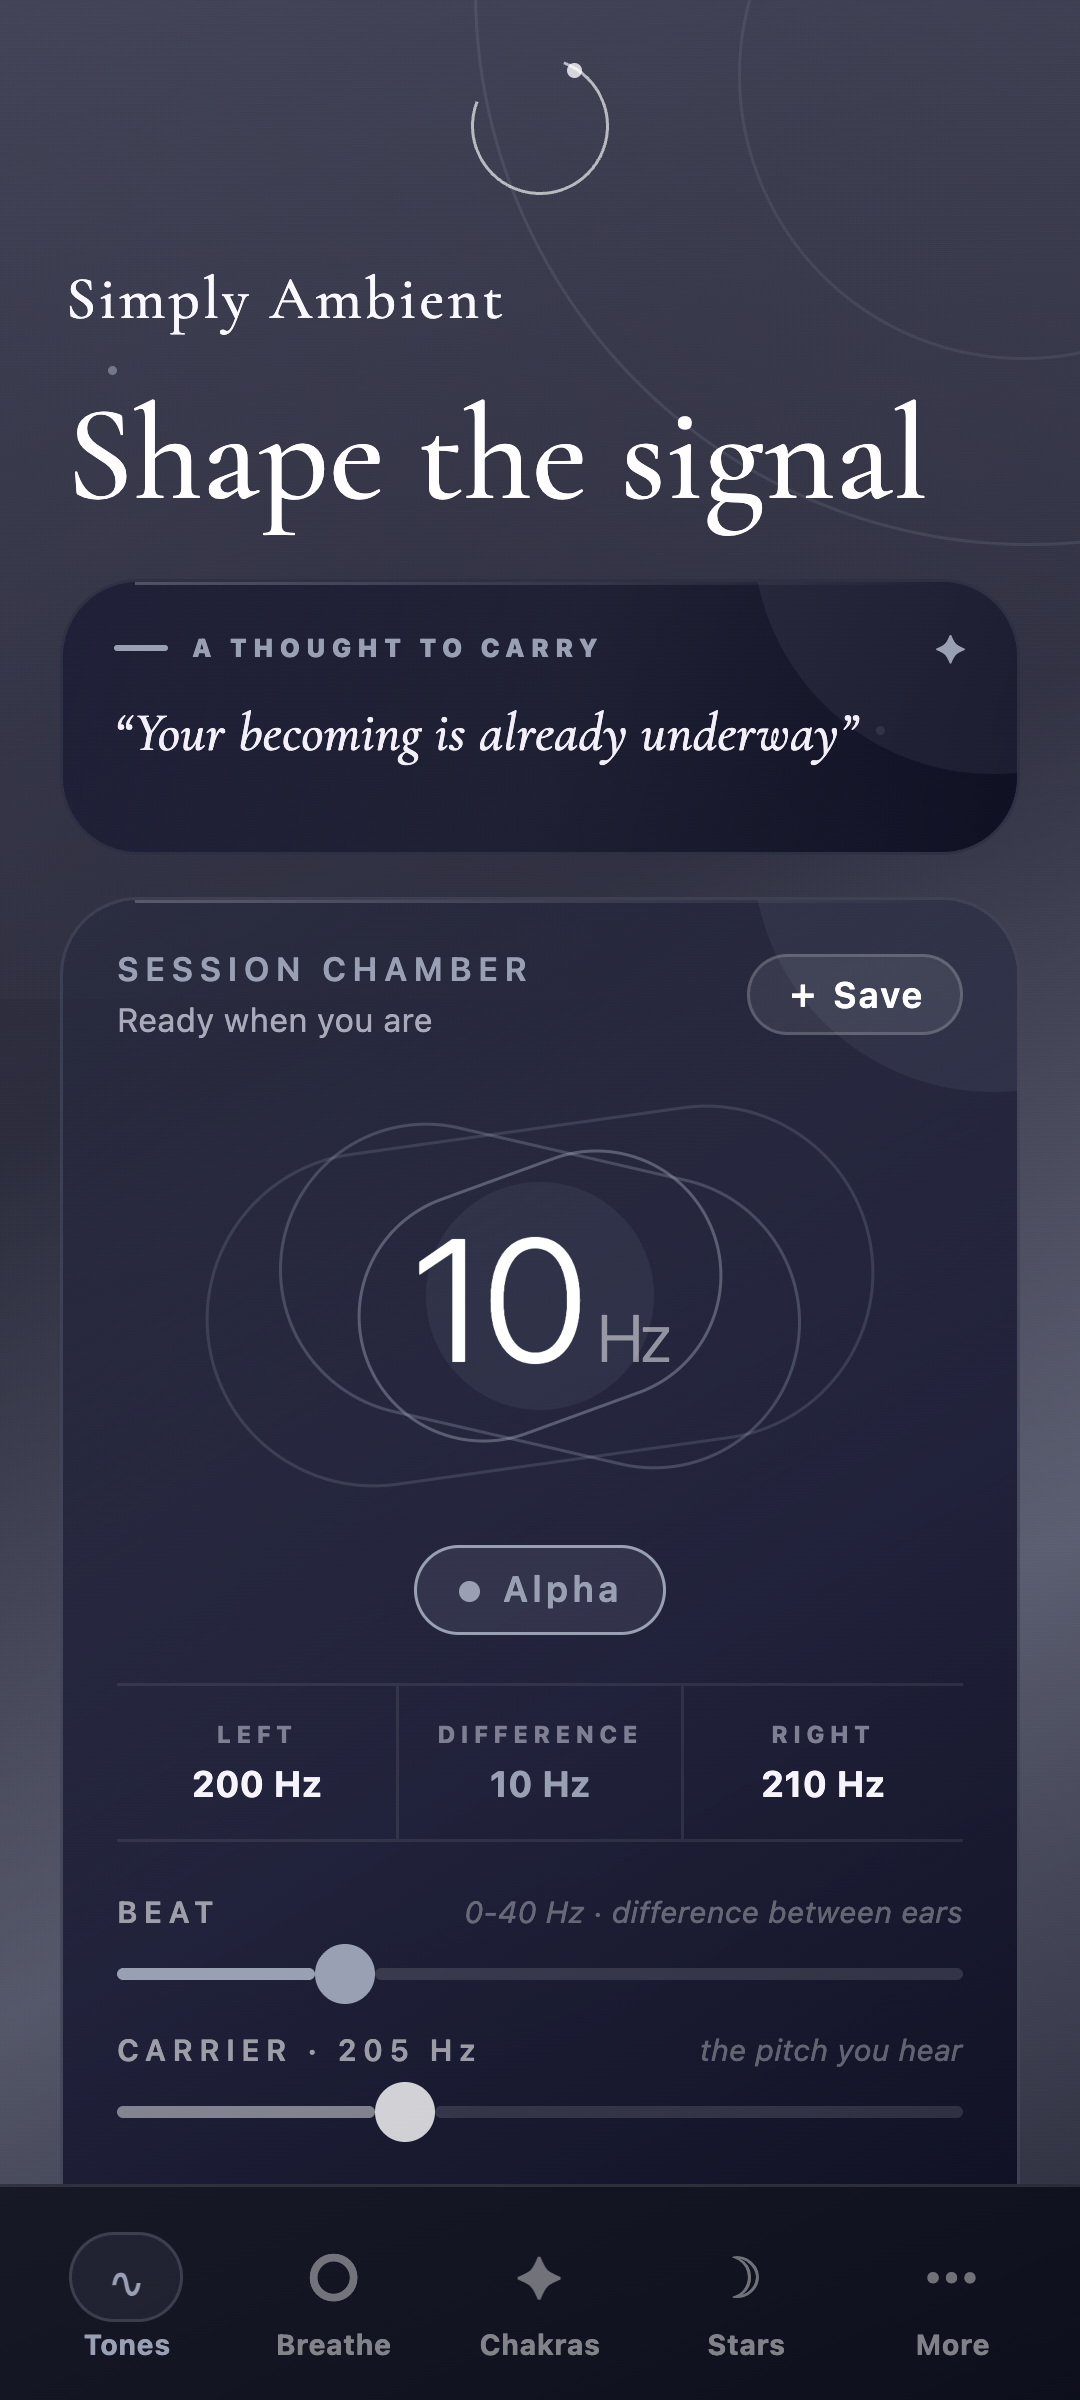
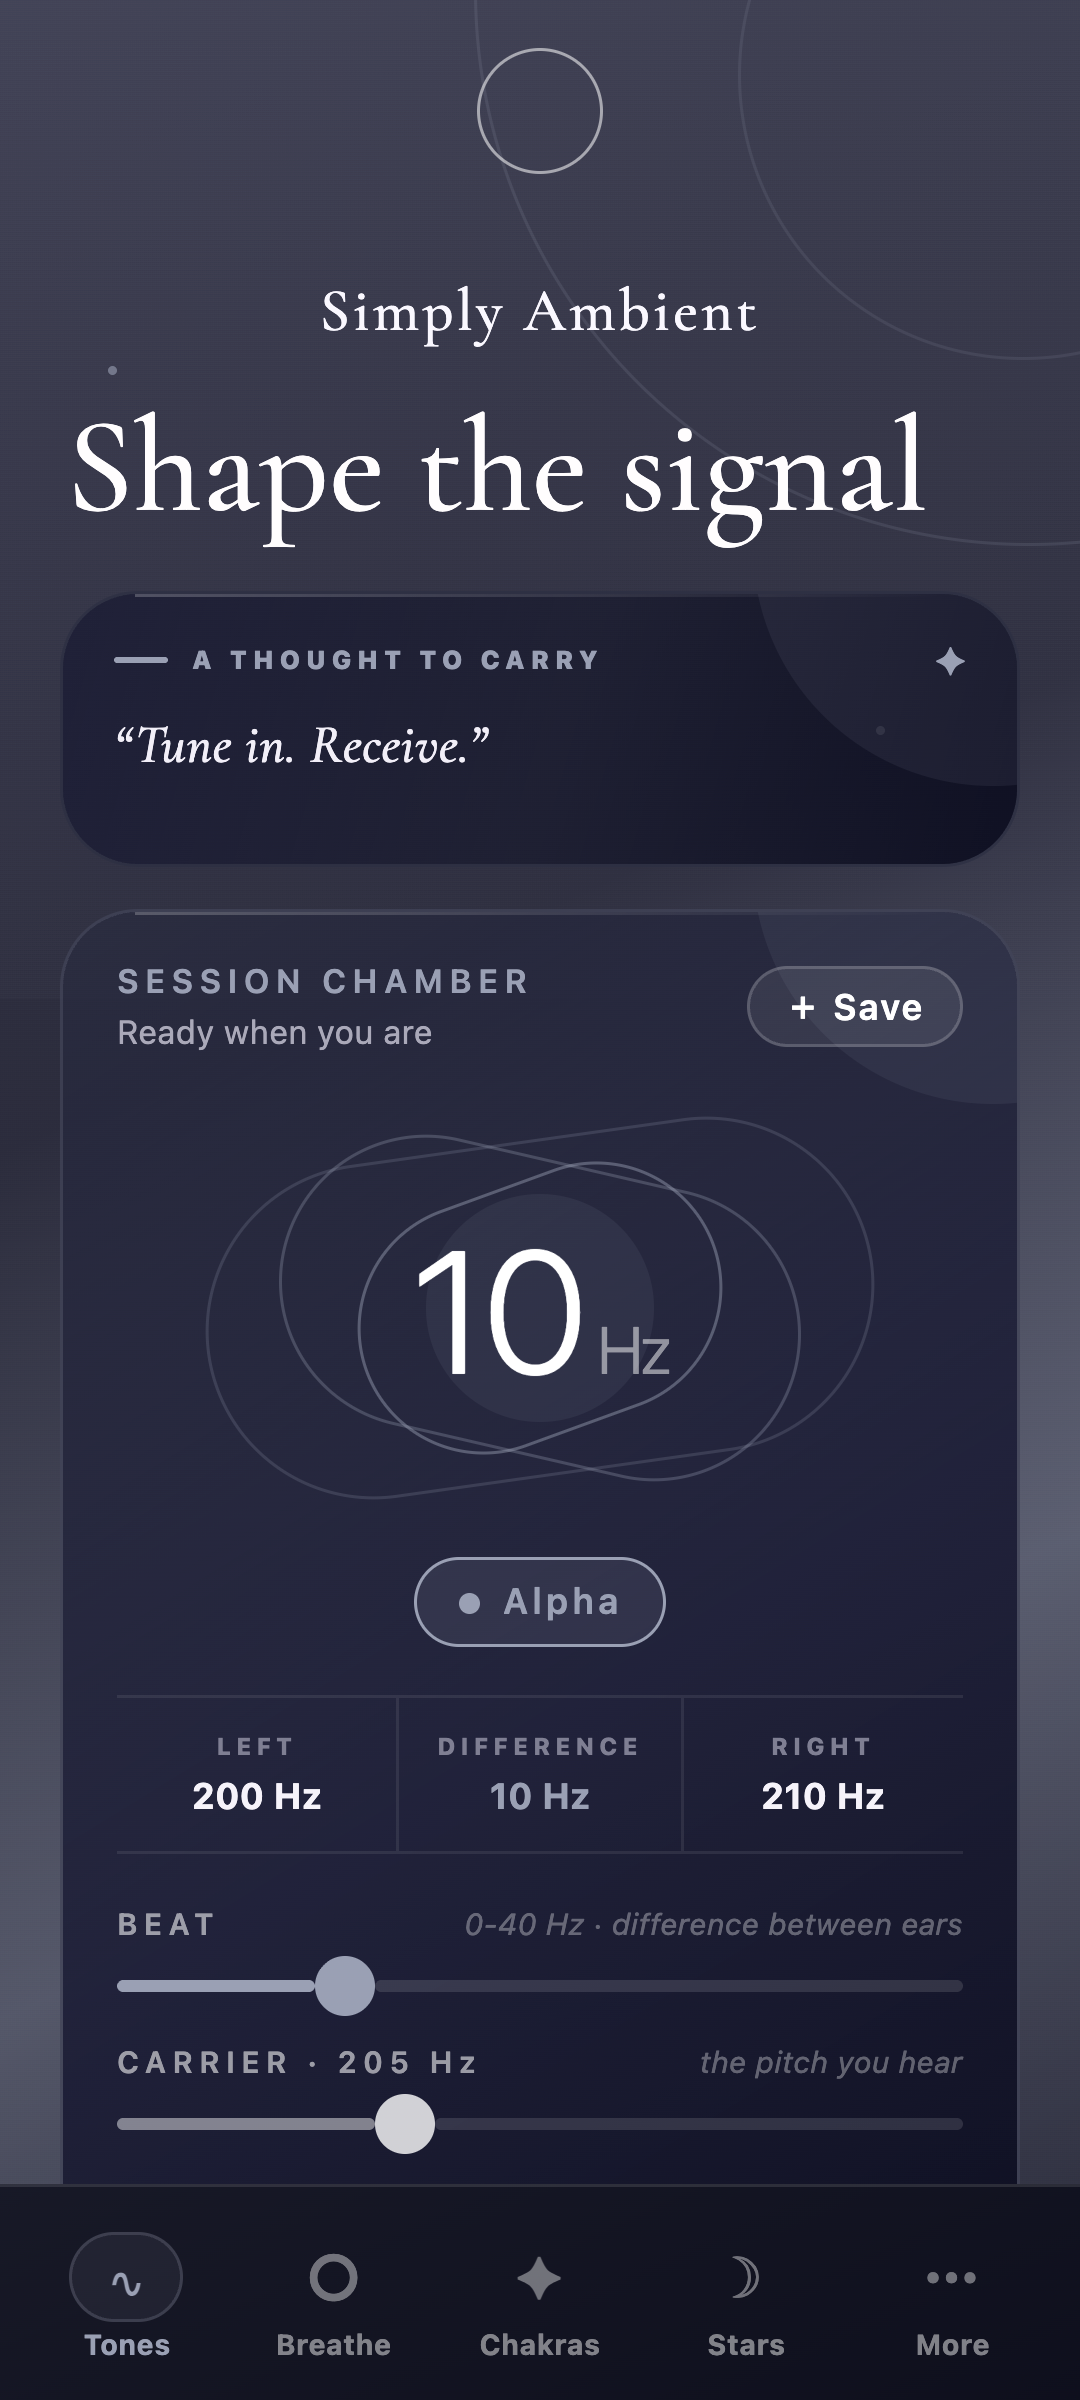
Restore centered Tones mark and glass player dock

diff --git a/App.tsx b/App.tsx
@@ -2666,11 +2666,27 @@ function MiniPlayer({
 
   return (
     <Animated.View
-      style={{
-        opacity: barOpacity,
-        transform: [{ translateY: barOffset }],
-      }}
+      style={[
+        styles.miniPlayerDock,
+        {
+          opacity: barOpacity,
+          transform: [{ translateY: barOffset }],
+        },
+      ]}
     >
+      <LinearGradient
+        colors={[
+          'rgba(6,8,22,0.56)',
+          'rgba(16,19,38,0.43)',
+          'rgba(5,7,20,0.60)',
+        ]}
+        locations={[0, 0.48, 1]}
+        start={{ x: 0, y: 0 }}
+        end={{ x: 1, y: 1 }}
+        style={StyleSheet.absoluteFill}
+        pointerEvents="none"
+      />
+      <View style={styles.miniPlayerDockSheen} pointerEvents="none" />
       <View
         style={[styles.miniPlayer, { borderColor: accent + '66' }]}
       >
@@ -2954,16 +2970,14 @@ function FrequenciesView(props: FreqViewProps) {
         showsVerticalScrollIndicator={false}
       >
       <View style={styles.freqEnsoWrap} pointerEvents="none">
-        <View style={styles.freqEnsoMark}>
-          <View style={styles.freqEnsoArc} />
-          <View style={styles.freqEnsoDot} />
-        </View>
+        <View style={styles.enso} />
       </View>
       <View style={styles.freqEditorialHeader}>
         <EditorialHeader
           mode={isTonePlaying ? 'LIVE SESSION' : 'CREATE'}
           title="Shape the signal"
           accent={beatColor}
+          centerBrand
         />
       </View>
 
@@ -3624,16 +3638,6 @@ const styles = StyleSheet.create({
   },
   freqEditorialHeader: { marginHorizontal: -20, paddingTop: 8 },
   freqEnsoWrap: { alignItems: 'center', paddingTop: 12, marginBottom: -2 },
-  freqEnsoMark: { width: 52, height: 52, alignItems: 'center', justifyContent: 'center' },
-  freqEnsoArc: {
-    position: 'absolute', width: 46, height: 46, borderRadius: 23,
-    borderWidth: 1.5, borderColor: 'rgba(255,255,255,0.64)',
-    borderTopColor: 'transparent', transform: [{ rotate: '-24deg' }],
-  },
-  freqEnsoDot: {
-    position: 'absolute', width: 5, height: 5, borderRadius: 3,
-    top: 5, right: 12, backgroundColor: 'rgba(255,255,255,0.78)',
-  },
   freqAffirmationCard: {
     marginBottom: 14, paddingHorizontal: 17, paddingVertical: 14, minHeight: 92,
   },
@@ -3985,6 +3989,29 @@ const styles = StyleSheet.create({
   },
 
 
+  miniPlayerDock: {
+    paddingTop: 7,
+    backgroundColor: 'rgba(7,8,24,0.38)',
+    borderTopWidth: 1,
+    borderBottomWidth: 1,
+    borderColor: 'rgba(255,255,255,0.09)',
+    shadowColor: '#000',
+    shadowOpacity: 0.22,
+    shadowRadius: 18,
+    shadowOffset: { width: 0, height: -5 },
+    elevation: 7,
+    ...(Platform.OS === 'web'
+      ? ({ backdropFilter: 'blur(18px)', WebkitBackdropFilter: 'blur(18px)' } as any)
+      : {}),
+  },
+  miniPlayerDockSheen: {
+    position: 'absolute',
+    top: 0,
+    left: 16,
+    right: 16,
+    height: 1,
+    backgroundColor: 'rgba(255,255,255,0.14)',
+  },
   miniPlayer: {
     flexDirection: 'row',
     alignItems: 'center',

diff --git a/AmbientUI.tsx b/AmbientUI.tsx
@@ -193,17 +193,19 @@ export function EditorialHeader({
   subtitle,
   accent,
   compact = false,
+  centerBrand = false,
 }: {
   mode: string;
   title: string;
   subtitle?: string;
   accent: string;
   compact?: boolean;
+  centerBrand?: boolean;
 }) {
   return (
     <View style={[shared.header, compact && shared.headerCompact]}>
-      <View style={shared.brandRow}>
-        <Text style={shared.brand}>Simply Ambient</Text>
+      <View style={[shared.brandRow, centerBrand && shared.brandRowCentered]}>
+        <Text style={[shared.brand, centerBrand && shared.brandCentered]}>Simply Ambient</Text>
       </View>
       <Text accessibilityRole="header" style={[shared.pageTitle, compact && shared.pageTitleCompact]}>{title}</Text>
       {subtitle ? (
@@ -376,12 +378,14 @@ const shared = StyleSheet.create({
   header: { paddingTop: 14, paddingHorizontal: 22, paddingBottom: 18 },
   headerCompact: { paddingTop: 8, paddingBottom: 12 },
   brandRow: { flexDirection: 'row', alignItems: 'center', justifyContent: 'space-between' },
+  brandRowCentered: { justifyContent: 'center' },
   brand: {
     color: '#FAF8FF',
     fontFamily: 'CormorantGaramond_500Medium',
     fontSize: 20,
     letterSpacing: 1.2,
   },
+  brandCentered: { textAlign: 'center' },
   pageTitle: {
     color: '#FFFDFE',
     fontFamily: 'CormorantGaramond_500Medium',
